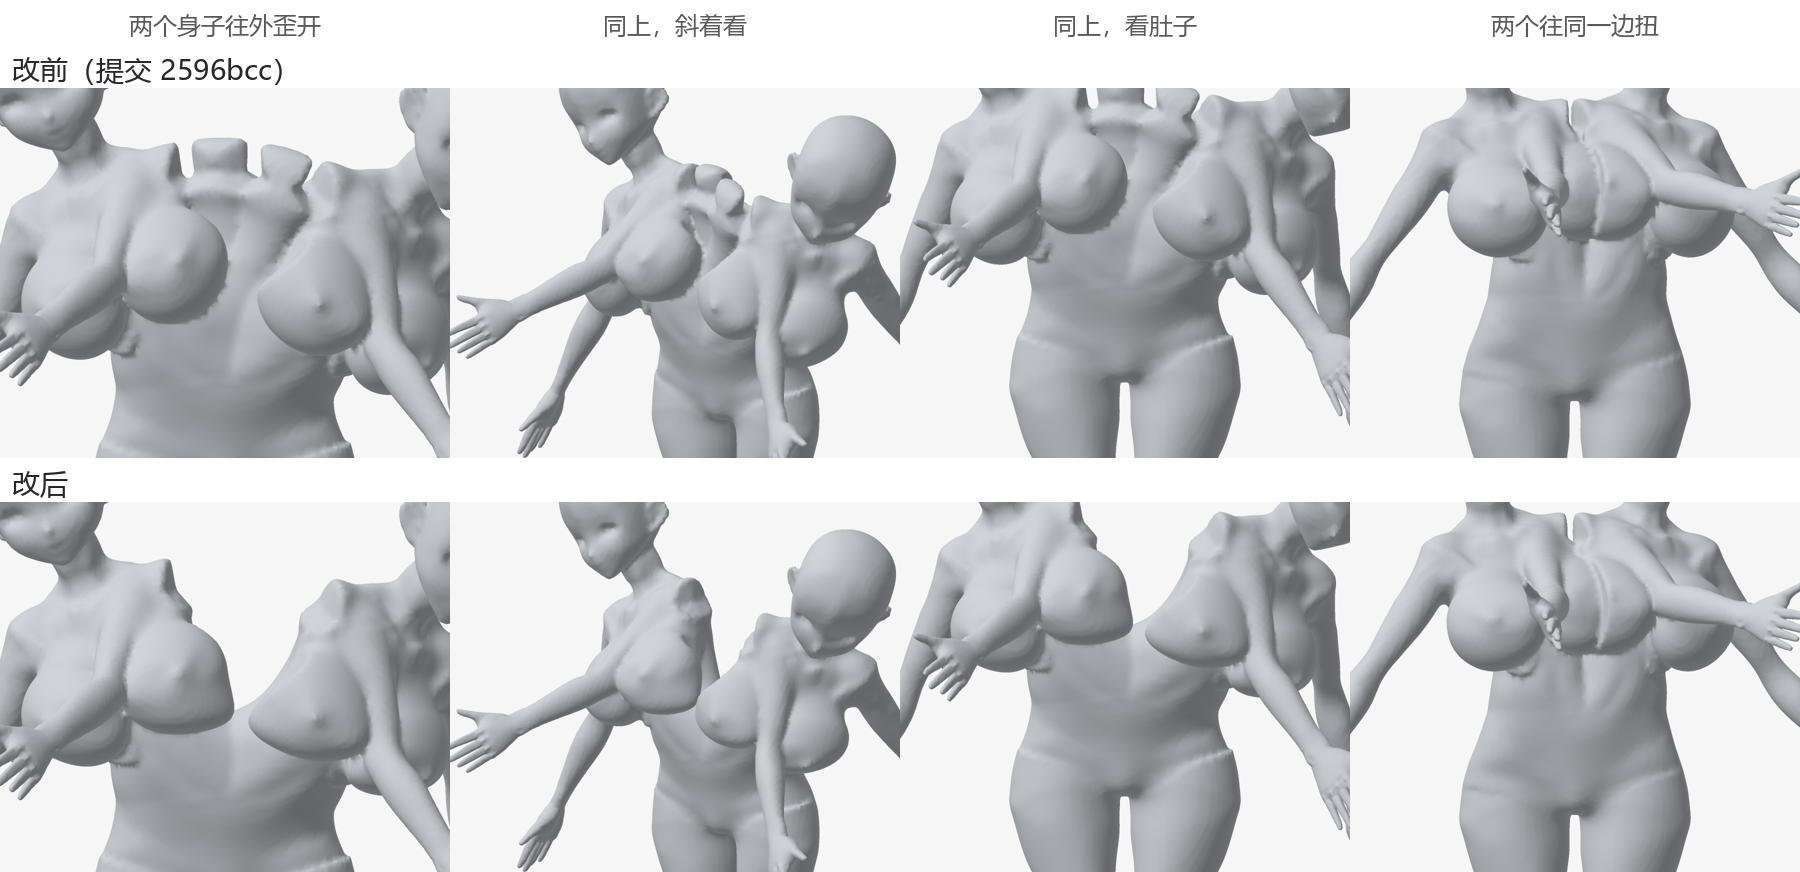
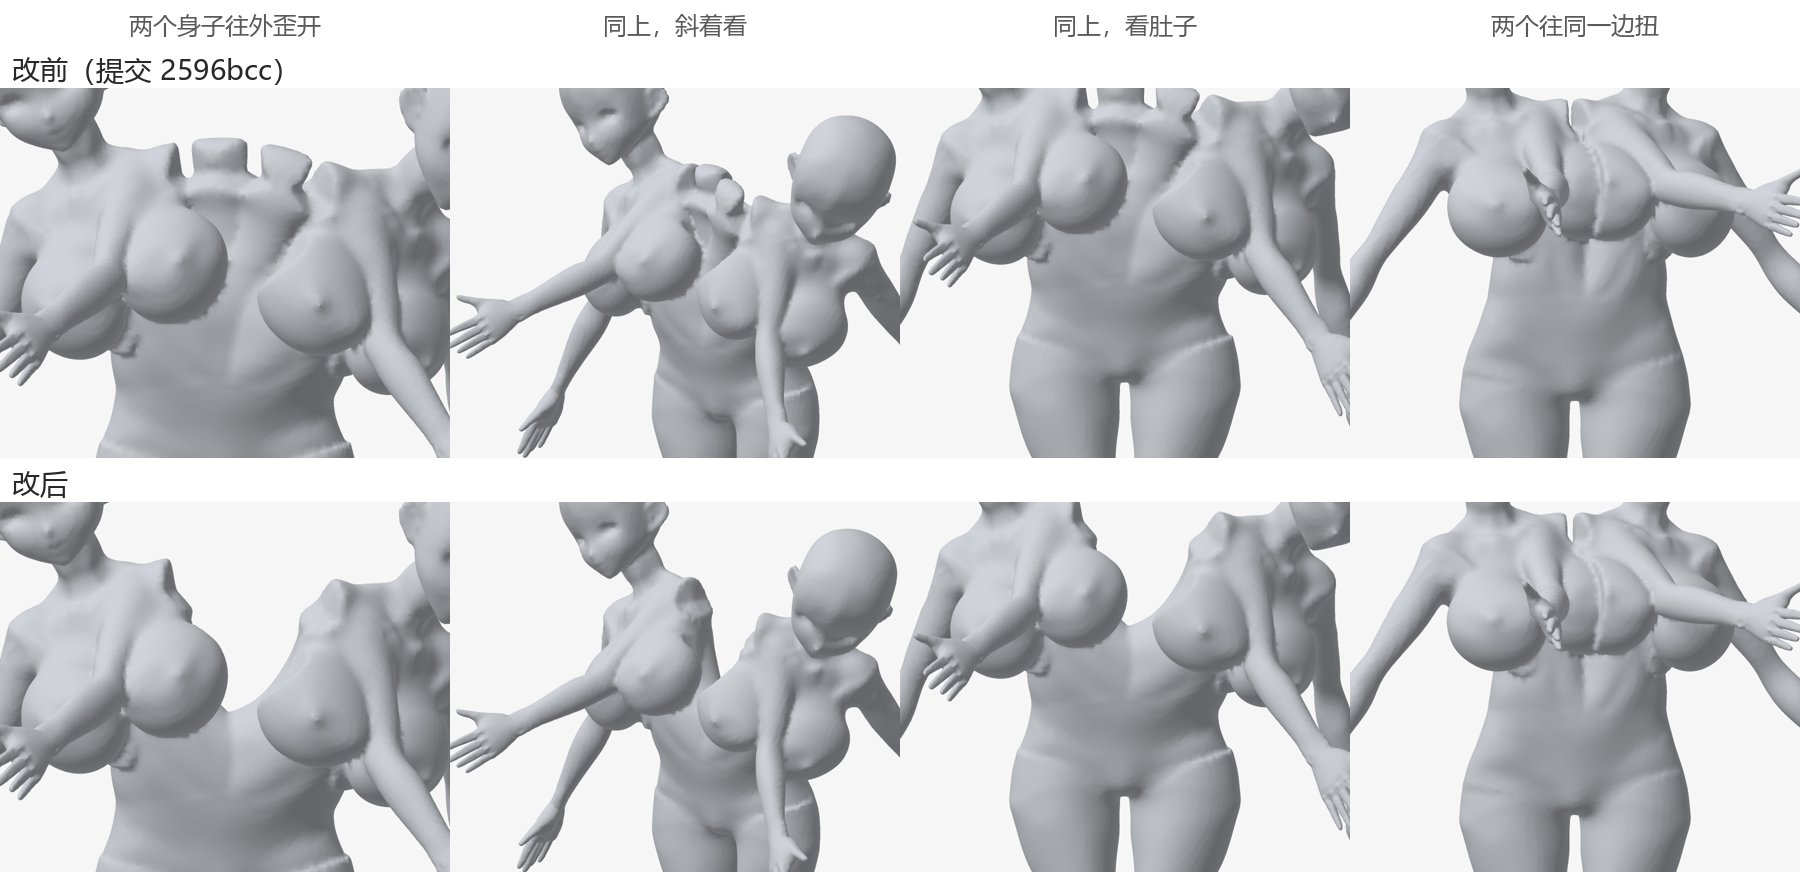
两个上半身直立并排摆姿势：胸只跟自己的脊柱弯，不再被拽向正中拉尖；里侧胸的切口两刀都切到才切
- 胸照躯干那种从腰往上的渐变弯时，大胸下半截在渐变段里被拽向两个身子正中，里侧胸的下角拉尖
- 里侧胸正中切齐的那一刀：跟着胸的、留在两个身子正中的，两刀都切到才切掉（分开时胸圆回来，往同一边扭时不被切平）
- 离胸表面 6 cm 以外不再看切口（CHEST_FAR）

diff --git a/src/sdf/posedField.ts b/src/sdf/posedField.ts
@@ -25,7 +25,7 @@
  *   两个上半身一歪开，正中切开的两个切面就露出来；胸根那一层顺着自己那个上半身的脊柱弯，往外渐渐换成整个跟着那个上半身最近的那节骨骼。
  *   照权重弯的话，挤在一起的两只胸接触的那一圈是一整张皮，两个上半身一分开就被拉成一根管子；这样重新融合，两只胸干干净净地分开。
  *   两个上半身直立并排的（每个上半身是完整的一份躯干，不是切开拼的，见 OWN_BEND）另有一套：上半身那份从腰往上渐渐换成只跟自己的脊柱弯，
- *   胸整只照同一种弯法走，胸根和躯干对得上；两个身子歪开时从肚子上面干干净净地分开。
+ *   胸整只只跟自己的脊柱，胸根和躯干对得上；两个身子歪开时从肚子上面干干净净地分开。
  * 部件之间照旧是圆滑地融合。
  *
  * 不是什么身体都照这个办法，见 refusable。
@@ -121,12 +121,13 @@ const PELVIS_STUB = { down: 0.14 };
 const SHARED_LIFT: [near: number, far: number] = [0.005, 0.05];
 /**
  * 两个上半身直立并排时上半身那份躯干怎么弯（见 apartMap）：静止时比腰（脊柱起点）高 from 以下和胯、另一个上半身一起顺着所有躯干骨骼弯，
- * 到 to 换成只跟自己的脊柱弯，之间渐变（按标准人台的尺寸）。
+ * 到 to 换成只跟自己的脊柱弯，之间渐变（按标准人台的尺寸）。胸整只只跟自己的脊柱（见 chestDrafts）。
  * 下沿和胯叠着的那一截两边是同一张皮，要和胯一样弯，不然错开、肚子上横着一道锯齿缝；往上整个一起弯的话，胸根（跟着自己的脊柱）和躯干对不上，
- * 里侧胸根一圈毛边，两个身子之间冒出几块方块
+ * 里侧胸根一圈毛边，两个身子之间冒出几块方块。
+ * 胸也照躯干这种渐变弯的话不行：大胸的下半截正在渐变的那一段里，被拽向两个身子正中，里侧胸的下角拉尖
  */
 const OWN_BEND: [from: number, to: number] = [0.06, 0.2];
-/** 两个上半身直立并排时胸上离胸表面（照自己的脊柱搬回去量）这么远以外的点不再细算（按标准人台的尺寸，见 chestDrafts） */
+/** 两个上半身直立并排时，胸上离胸表面这么远以外的点不再看切口（按标准人台的尺寸，见 chestDrafts） */
 const CHEST_FAR = 0.06;
 /** 顺着好几节骨骼弯时，一节骨骼在一个基本体上哪儿都占不到这么多，就不算它（见 bendMap 的 focus） */
 const FOCUS_LEAST = 1e-3;
@@ -467,8 +468,6 @@ function bendMap(bones: number[], skeleton: Skeleton, m: PoseMatrices, stubs: St
 type Back = {
   map: (x: number, y: number, z: number, out: Float64Array) => void;
   box: (d: Draft) => number[];
-  /** 只顺着自己的脊柱搬回去（见 apartMap）：map 是在这个基础上再往「一起弯」那边渐变 */
-  own?: (x: number, y: number, z: number, out: Float64Array) => void;
 };
 
 /** 一个静止时的基本体，顺着 bones 这几节骨骼弯过去（不分段，见 bendMap）；made：另给的弯法（见 apartMap） */
@@ -970,13 +969,13 @@ export function compilePosedField(
   const torsoBones = torsoParts.flatMap((part) => own.get(part.name) ?? []);
   const torsoStubs = torsoParts.flatMap((part) => pelvis.get(part.name) ?? []);
   /**
-   * 两个上半身直立并排：每个上半身是完整的一份躯干，上半身那份往上渐渐换成只跟自己的脊柱弯，胸照同一种弯法（见 OWN_BEND）。
+   * 两个上半身直立并排：每个上半身是完整的一份躯干，上半身那份往上渐渐换成只跟自己的脊柱弯（见 OWN_BEND），胸只跟自己的脊柱。
    * 切开拼起来的——并成宽躯干切成两半的（clipX）、三个上半身和相邻的各留一半的（fork.split）——照旧整个一起弯，各跟各的话切面露出来
    */
   const apart =
     shared && !torsoParts.some((part) => part.prims.some((prim) => prim.kind === 'grid' && (prim.clipX !== undefined || !!prim.fork?.split?.length)));
   const apartMaps = new Map<string, (d: Draft) => Back>();
-  /** 两个上半身直立并排时某个上半身那份躯干（和长在上面的胸）怎么倒着搬回去（见 OWN_BEND）；不是这种的 undefined */
+  /** 两个上半身直立并排时某个上半身那份躯干怎么倒着搬回去（见 OWN_BEND）；不是这种的 undefined */
   const apartMap = (name: string): ((d: Draft) => Back) | undefined => {
     if (!apart || !/^UpperBody/.test(name)) return undefined;
     const spine = own.get(name);
@@ -991,7 +990,6 @@ export function compilePosedField(
       const mine = bendMap(spine, skeleton, matrices, [], d);
       const a = new Float64Array(3);
       return {
-        own: mine.map,
         map: (x, y, z, out) => {
           mine.map(x, y, z, out);
           const t = (out[1] - lo) / (hi - lo);
@@ -1042,8 +1040,8 @@ export function compilePosedField(
     let body: Part | undefined = part;
     while (body && body.type !== 'torso') body = body.parent ? byName.get(body.parent) : undefined;
     const spine = body && /^UpperBody/.test(body.name) ? own.get(body.name) : undefined;
-    // 两个上半身直立并排：整只胸和自己那个上半身的躯干一样弯（见 OWN_BEND），胸根始终贴着躯干
-    const follow = body ? apartMap(body.name) : undefined;
+    // 两个上半身直立并排：整只胸只顺着自己那个上半身的脊柱弯（见 OWN_BEND）
+    const follow = body && spine && apartMap(body.name) ? spine : undefined;
     const q = new Float64Array(3);
     /** 一个静止时的基本体整个跟着那节骨骼搬过去以后占多大（corners：用哪几个角） */
     const rigidBox = (corners: readonly number[]): number[] => {
@@ -1062,7 +1060,8 @@ export function compilePosedField(
       const f = draftDist(d);
       if (follow) {
         const far = CHEST_FAR * xf.scale;
-        const along = follow(d);
+        const bend = bendMap(follow, skeleton, m, [], d);
+        const whole = seam ? bendMap(torsoBones, skeleton, m, torsoStubs, d) : null;
         drafts.push({
           type: T_CUSTOM,
           group: d.group,
@@ -1070,20 +1069,21 @@ export function compilePosedField(
           mode: d.mode,
           k: d.k,
           custom: (x, y, z) => {
-            // 离胸远的（胸的格子盒子很大，大半是空的）照自己的脊柱搬回去估一下就够了：两种弯法差不到这么多，远处的值不影响表面
-            along.own!(x, y, z, q);
-            const guess = f(q[0], q[1], q[2]);
-            if (guess > far) return guess;
-            along.map(x, y, z, q);
+            bend.map(x, y, z, q);
             const v = f(q[0], q[1], q[2]);
-            if (!seam) return v;
-            // 里侧的胸在两个身子正中切齐的那一刀跟着胸弯：两个身子各弯各的，往同一边扭、歪时里侧的胸越过正中，
-            // 照两个身子一起弯的话那一刀留在正中，把胸切出一个平面
-            const cut = n[0] * q[0] + n[1] * q[1] + n[2] * q[2] + c;
+            // 离胸表面远的不用再看切口（切口只会把值改大，远处的值不影响表面）：胸的格子盒子很大，大半是空的
+            if (!whole || v > far) return v;
+            // 里侧的胸在两个身子正中切齐的那一刀：跟着胸的那一刀、留在两个身子正中（顺着所有躯干骨骼弯）的那一刀，两刀都切到的才切掉。
+            // 只跟着胸的话两个身子分开时胸上留着一个平面；只留在正中的话往同一边扭、歪时越过正中的胸被切平
+            const mine = n[0] * q[0] + n[1] * q[1] + n[2] * q[2] + c;
+            if (mine <= v) return v;
+            whole.map(x, y, z, q);
+            const middle = n[0] * q[0] + n[1] * q[1] + n[2] * q[2] + c;
+            const cut = mine < middle ? mine : middle;
             return v > cut ? v : cut;
           },
-          box: along.box(d),
-          ...(d.span ? { cull: [boxCorners(along.box({ ...d, corners: tightCorners(d), outerCorners: undefined }))] } : {}),
+          box: bend.box(d),
+          ...(d.span ? { cull: [boxCorners(bend.box({ ...d, corners: tightCorners(d), outerCorners: undefined }))] } : {}),
         });
         continue;
       }

diff --git a/docs/rework-plan.md b/docs/rework-plan.md
@@ -209,8 +209,9 @@
 对比图 [docs/fix-chest-root.png](fix-chest-root.png)。
 
 接着修了两个上半身直立并排的（他说「接着修」）。摆得歪的时候里侧胸根一圈毛边、两个身子之间冒出几块方块，原因是每个上半身是完整的一份躯干，摆姿势时却和胯、另一个上半身一起顺着所有躯干骨骼弯（正中那一带两根脊柱各占一半），胸根只跟着自己那根脊柱，两边对不上，胸那块格子埋在躯干里的部分翻出来。
-现在上半身那份躯干从腰往上 6 cm 以下照旧一起弯（下沿和胯叠着的那一截两边是同一张皮，要和胯一样弯），到 20 cm 换成只跟自己的脊柱弯（`posedField.ts` 的 OWN_BEND、apartMap），胸整只照同一种弯法，里侧的胸在正中切齐的那一刀也跟着胸走（往同一边扭、歪时不会把越过正中的胸切出平面）。两个身子往外歪开时从肚子上面干干净净地分开，方块和胸根的毛边都没了；往同一边扭、歪的和以前差不多。胸的格子盒子很大、大半是空的，离胸表面 6 cm 以外的点只照自己的脊柱估一下（CHEST_FAR），重新融合反而快了：往外歪开那个姿势 16.5 s → 12.0 s。
-试过的：上半身那份整个只跟自己的脊柱——下沿和胯错开，肚子上横着一道锯齿缝；带上胯那节骨骼也一样（胯那块只跟胯，两边还是对不上）；胸根跟着一起弯、胸往外跟自己的脊柱——里侧胸根被拽到正中，两只胸并成一坨。
+现在上半身那份躯干从腰往上 6 cm 以下照旧一起弯（下沿和胯叠着的那一截两边是同一张皮，要和胯一样弯），到 20 cm 换成只跟自己的脊柱弯（`posedField.ts` 的 OWN_BEND、apartMap）；胸整只只跟自己那个上半身的脊柱。里侧的胸在正中切齐的那一刀，跟着胸的那一刀和留在两个身子正中的那一刀都切到的才切掉：两个身子分开时胸重新圆回来，往同一边扭、歪时越过正中的胸也不会被切平。两个身子往外歪开时从肚子上面干干净净地分开，方块和胸根的毛边都没了；往同一边扭、歪的和以前差不多。离胸表面 6 cm 以外的点不再看切口（CHEST_FAR），同一时间轮着测，往外歪开那个姿势比 2596bcc 快一成多（22.7 s → 18.9 s，那时机器忙，空闲时大约 16 s → 13 s）。
+第一版（701fcf8）胸也照躯干那种渐变弯，他看对比图说胸被牵扯变形：大胸的下半截正在渐变的那一段里，被拽向两个身子正中，里侧胸的下角拉尖；而且那一刀只跟着胸走，两个身子分开时里侧胸上留着一个平面（发给他的对比图是改那一刀之前出的，没看出来）。11-05 改成上面这样。
+试过的：上半身那份整个只跟自己的脊柱——下沿和胯错开，肚子上横着一道锯齿缝；带上胯那节骨骼也一样（胯那块只跟胯，两边还是对不上）；胸根跟着一起弯、胸往外跟自己的脊柱——里侧胸根被拽到正中，两只胸并成一坨；胸根照躯干、胸往外照自己的脊柱或整块跟一节骨骼、两种按距离值渐变——里侧胸的下角照样拉尖。
 顺手修了分叉那段（`fork.ts`）缓存的一个老毛病：同一列只算一次，取出来的深度差在最后一位上，同一点先算过哪些点结果就不一样（分给几个线程融合时可能对不上）；现在照深度 0 算好再加回深度，取出来的和现算的逐值一样。三个上半身、并成宽躯干的（切开拼的，必须一起弯）没动。对比图 [docs/fix-pose-apart.png](fix-pose-apart.png)。
 
 ## 风险和应对
